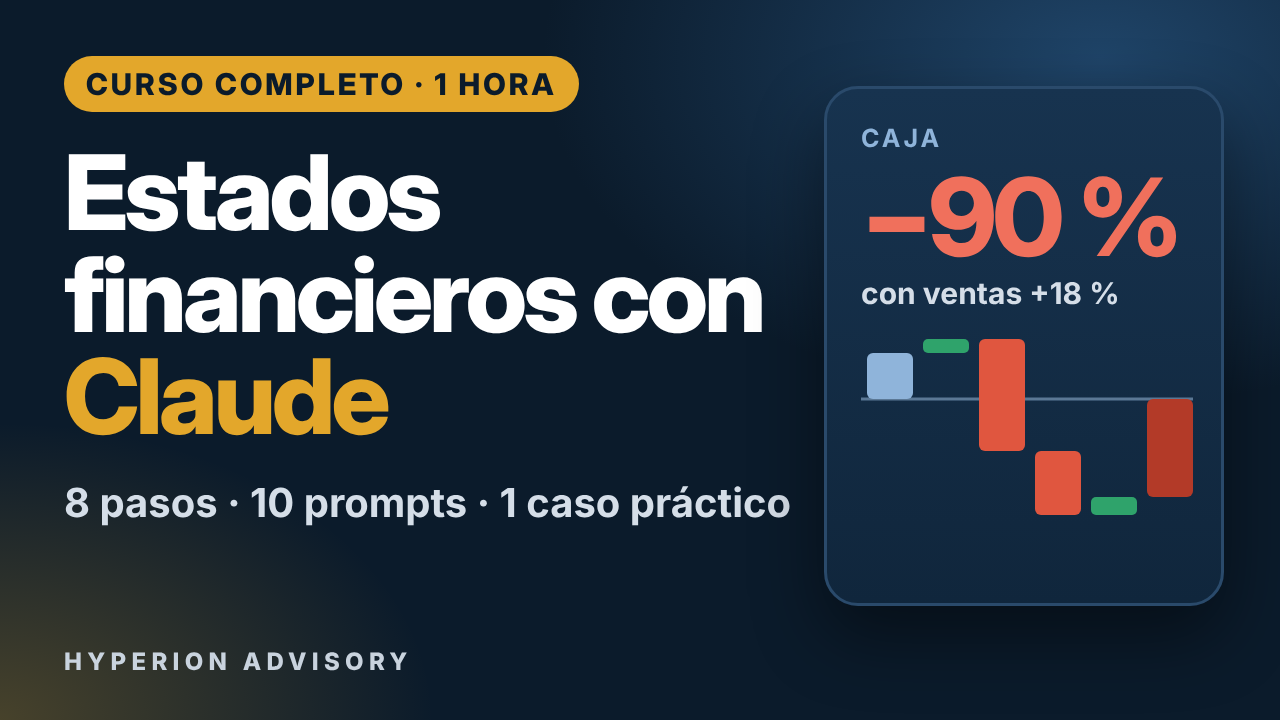
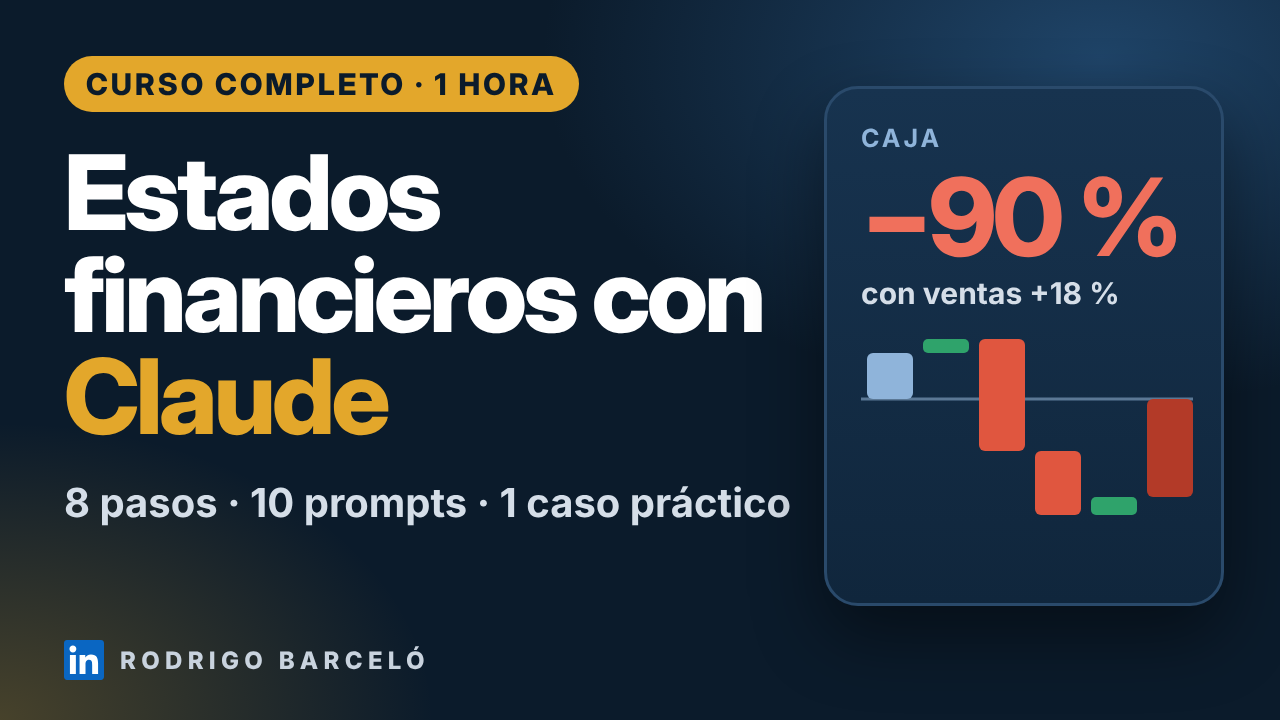
Curso de YouTube: firma del autor con LinkedIn en lugar de Hyperion
- pie de cada lámina, portada y miniatura: logo de LinkedIn junto a
  «Rodrigo Barceló» (antes, Hyperion Advisory)
- narración: la presentación dice el nombre del autor y el cierre invita
  a conectar por LinkedIn en vez de ofrecer el diagnóstico de la empresa
- descripción y etiquetas de YouTube sin el sitio ni la agenda de la
  empresa; queda un marcador para el enlace al perfil de LinkedIn
- «LinkedIn» se envía a la voz como «Línkedin»
- narracion.json con los dos audios regenerados (seg_000 y seg_095)
- prueba: ninguna lámina ni texto de voz nombra a la empresa

Claude-Session: https://claude.ai/code/session_01D34wMs6CNV8LnqbGaGS6HL

Changed region(s): [[0.0312, 0.8861, 0.3438, 0.9472]]

diff --git a/curso_youtube/estilo.css b/curso_youtube/estilo.css
@@ -28,7 +28,8 @@ h1 { font-family: "Inter Display", "Inter", sans-serif; font-size: 60px; line-he
 .cuerpo.alto { top: 196px; }
 .pie { position: absolute; left: 104px; right: 104px; bottom: 34px; height: 44px; display: flex; align-items: center; gap: 28px; font-size: 20px; font-weight: 600; letter-spacing: .12em; text-transform: uppercase; color: var(--texto-3); }
 .pie .curso { white-space: nowrap; }
-.pie .marca-h { white-space: nowrap; color: var(--texto-2); font-weight: 800; letter-spacing: .2em; }
+.pie .marca-h { white-space: nowrap; color: var(--texto-2); font-weight: 800; letter-spacing: .2em; display: inline-flex; align-items: center; gap: 14px; }
+.logo-in { width: 1.5em; height: 1.5em; flex: none; display: block; }
 .avance { flex: 1; display: flex; gap: 6px; align-items: center; }
 .avance i { flex: 1; height: 6px; border-radius: 3px; background: var(--linea-2); position: relative; overflow: hidden; }
 .avance i.hecho { background: var(--tinta-3); }
@@ -204,7 +205,7 @@ svg text { font-family: "Inter", sans-serif; }
 .titulo-curso h2 em { font-style: normal; color: var(--oro); }
 .titulo-curso .sub { font-size: 44px; line-height: 1.3; color: #C5D0DC; margin-top: 34px; }
 .titulo-curso .quien { margin-top: 56px; display: inline-flex; align-items: center; gap: 20px; padding: 16px 34px; border-radius: 999px; border: 2px solid #2F5174; font-size: 32px; font-weight: 600; color: #E7EDF4; }
-.titulo-curso .quien i { width: 14px; height: 14px; border-radius: 50%; background: var(--oro); }
+.titulo-curso .quien .logo-in { width: 44px; height: 44px; }
 .chips { display: flex; gap: 34px; margin-top: 70px; }
 .chip { width: 470px; border-radius: 26px; background: linear-gradient(180deg, #17334F, #10263C); border: 2px solid #2A4A6B; padding: 38px 34px; text-align: left; }
 .chip .ico { font-size: 60px; color: var(--oro); }
@@ -240,7 +241,9 @@ svg text { font-family: "Inter", sans-serif; }
 .op { border-radius: 26px; background: linear-gradient(180deg, #17334F, #10263C); border: 2px solid #2A4A6B; padding: 40px 36px; display: flex; flex-direction: column; gap: 16px; min-height: 420px; }
 .op .n { font-family: "Inter Display", sans-serif; font-size: 26px; font-weight: 800; letter-spacing: .16em; color: var(--oro); }
 .op .ico { font-size: 62px; color: var(--oro); margin: 8px 0 4px; }
-.op b { font-family: "Inter Display", sans-serif; font-size: 44px; line-height: 1.1; font-weight: 760; color: #fff; letter-spacing: -.02em; }
+.op .logo-in { width: 62px; height: 62px; margin: 8px 0 4px; }
+.op > b { font-family: "Inter Display", sans-serif; font-size: 44px; line-height: 1.1; font-weight: 760; color: #fff; letter-spacing: -.02em; }
+.op span b { font-weight: 700; color: #fff; }
 .op span { font-size: 30px; line-height: 1.34; color: #B9C6D4; }
 .gracias { position: absolute; left: 0; right: 0; bottom: 150px; text-align: center; font-family: "Inter Display", sans-serif; font-size: 46px; font-weight: 700; color: #fff; }
 .gracias em { font-style: normal; color: var(--oro); }

diff --git a/curso_youtube/youtube.py b/curso_youtube/youtube.py
@@ -16,6 +16,7 @@ from pathlib import Path
 
 from . import deck
 from .ensamblar import ENTRADA, _marca
+from .laminas import LINKEDIN, MARCA
 
 AQUI = Path(__file__).parent
 SALIDA = AQUI / "youtube"
@@ -31,7 +32,7 @@ ETIQUETAS = [
     "inteligencia artificial en finanzas", "IA para finanzas", "ratios financieros", "flujo de caja",
     "capital de trabajo", "análisis vertical y horizontal", "desviaciones presupuesto", "control de gestión",
     "informe al directorio", "prompts para finanzas", "CFO", "gerente de finanzas", "pymes", "contabilidad",
-    "curso de finanzas", "Hyperion Advisory",
+    "curso de finanzas", MARCA,
 ]
 
 APRENDIZAJES = [
@@ -70,8 +71,7 @@ def publicacion(capitulos: list[str], estimados: bool) -> str:
         "",
         "📥 Ebook: [ENLACE AL EBOOK]",
         "📊 Archivo del caso (Excel) y los 10 prompts: [ENLACE A LOS MATERIALES]",
-        "📅 Diagnóstico financiero sin costo (30 minutos): [ENLACE DE AGENDA]",
-        "🌐 https://www.hyperionadvisory.cl",
+        f"💼 LinkedIn de {MARCA}: [ENLACE A TU PERFIL DE LINKEDIN]",
         "",
         "CAPÍTULOS",
         *capitulos,
@@ -104,7 +104,7 @@ def publicacion(capitulos: list[str], estimados: bool) -> str:
          "¿Qué paso te gustaría ver con más profundidad? Te leo en los comentarios.",
          "```", "",
          "## Lista de verificación antes de publicar", "",
-         "- [ ] Reemplazar los tres enlaces entre [corchetes] (ebook, materiales y agenda).",
+         "- [ ] Reemplazar los tres enlaces entre [corchetes] (ebook, materiales y tu perfil de LinkedIn).",
          "- [ ] Subir `material/caso_distribuidora_alerce.xlsx` y `material/prompts.md` al lugar que enlazarás.",
          *(["- [ ] Pegar los capítulos definitivos (archivo `*_capitulos.txt` del render final)."] if estimados else []),
          "- [ ] Subir la miniatura `youtube/miniatura.png` (1280 x 720).",
@@ -126,7 +126,8 @@ body{width:1280px;height:720px;overflow:hidden;font-family:"Inter Display","Inte
 h1{font-size:104px;line-height:.98;font-weight:800;letter-spacing:-.04em;margin-top:30px}
 h1 em{font-style:normal;color:#E3A72B}
 .sub{margin-top:30px;font-family:"Inter",sans-serif;font-size:40px;font-weight:650;color:#D5DEE8}
-.marca{position:absolute;left:64px;bottom:44px;font-family:"Inter",sans-serif;font-size:24px;font-weight:800;letter-spacing:.22em;color:#C9D3DE}
+.marca{position:absolute;left:64px;bottom:40px;display:flex;align-items:center;gap:16px;font-family:"Inter",sans-serif;font-size:24px;font-weight:800;letter-spacing:.22em;text-transform:uppercase;color:#C9D3DE}
+.marca svg{width:40px;height:40px;flex:none}
 .gr{position:absolute;right:56px;top:86px;width:400px;height:520px;background:linear-gradient(180deg,#17334F,#10263C);border:3px solid #2A4A6B;border-radius:34px;padding:34px;box-shadow:0 30px 70px rgba(0,0,0,.45)}
 .gr .t{font-family:"Inter",sans-serif;font-size:25px;font-weight:700;letter-spacing:.12em;color:#8FB4DA;text-transform:uppercase}
 .gr .n{font-size:108px;font-weight:800;letter-spacing:-.04em;line-height:1;margin-top:10px;color:#F0705C}
@@ -136,7 +137,7 @@ h1 em{font-style:normal;color:#E3A72B}
 <div class="iz"><span class="sello">CURSO COMPLETO · 1 HORA</span>
 <h1>Estados financieros con <em>Claude</em></h1>
 <div class="sub">8 pasos · 10 prompts · 1 caso práctico</div></div>
-<div class="marca">HYPERION ADVISORY</div>
+<div class="marca">__LOGO____MARCA__</div>
 <div class="gr"><div class="t">Caja</div><div class="n">−90 %</div><div class="d">con ventas +18 %</div>
 <svg viewBox="0 0 332 230"><line x1="0" y1="60" x2="332" y2="60" stroke="#5B7895" stroke-width="3"/>
 <rect x="6" y="14" width="46" height="46" rx="6" fill="#8FB4DA"/><rect x="62" y="0" width="46" height="14" rx="5" fill="#2FA36B"/>
@@ -147,7 +148,7 @@ h1 em{font-style:normal;color:#E3A72B}
 
 def miniatura(destino: Path) -> None:
     html = destino.with_suffix(".html")
-    html.write_text(MINIATURA_HTML, encoding="utf-8")
+    html.write_text(MINIATURA_HTML.replace("__LOGO__", LINKEDIN).replace("__MARCA__", MARCA), encoding="utf-8")
     script = ("const {chromium}=require('playwright');(async()=>{const b=await chromium.launch();"
               "const c=await b.newContext({viewport:{width:1280,height:720},deviceScaleFactor:1});const p=await c.newPage();"
               f"await p.goto('file://{html.resolve()}');await p.evaluate(()=>document.fonts.ready);"

diff --git a/curso_youtube/laminas.py b/curso_youtube/laminas.py
@@ -10,7 +10,15 @@ import html
 import re
 
 CURSO = "Análisis de estados financieros con Claude"
-MARCA = "Hyperion Advisory"
+MARCA = "Rodrigo Barceló"
+
+# Logo de LinkedIn (el recuadro con «in»): acompaña al nombre del autor para indicar dónde encontrarlo
+LINKEDIN = ('<svg class="logo-in" viewBox="0 0 24 24"><rect x="2" y="2" width="20" height="20" rx="2" fill="#fff"/>'
+            '<path fill="#0A66C2" d="M20.447 20.452h-3.554v-5.569c0-1.328-.027-3.037-1.852-3.037-1.853 0-2.136 1.445-2.136 '
+            '2.939v5.667H9.351V9h3.414v1.561h.046c.477-.9 1.637-1.85 3.37-1.85 3.601 0 4.267 2.37 4.267 5.455v6.286zM5.337 '
+            '7.433c-1.144 0-2.063-.926-2.063-2.065 0-1.138.92-2.063 2.063-2.063 1.14 0 2.064.925 2.064 2.063 0 1.139-.925 '
+            '2.065-2.064 2.065zm1.782 13.019H3.555V9h3.564v11.452zM22.225 0H1.771C.792 0 0 .774 0 1.729v20.542C0 23.227.792 '
+            '24 1.771 24h20.451C23.2 24 24 23.227 24 22.271V1.729C24 .774 23.2 0 22.222 0h.003z"/></svg>')
 
 ICONOS = {
     "check": '<polyline points="20 6 9 17 4 12"/>',
@@ -68,6 +76,8 @@ METODO = [
 
 
 def ico(nombre: str) -> str:
+    if nombre == "linkedin":
+        return LINKEDIN
     return f'<svg class="ico" viewBox="0 0 24 24">{ICONOS[nombre]}</svg>'
 
 
@@ -103,7 +113,7 @@ def _pie(ctx: dict) -> str:
         else:
             barras.append("<i></i>")
     return (f'<div class="pie"><span class="curso">{esc(CURSO)}</span>'
-            f'<div class="avance">{"".join(barras)}</div><span class="marca-h">{esc(MARCA)}</span></div>')
+            f'<div class="avance">{"".join(barras)}</div><span class="marca-h">{LINKEDIN}{esc(MARCA)}</span></div>')
 
 
 def _notas(notas: list[dict]) -> str:
@@ -301,7 +311,7 @@ def _gancho(s: dict) -> str:
 
 def _titulo_curso(s: dict) -> str:
     return (f'<div class="centro titulo-curso"><div class="sobre">{esc(s["sobre"])}</div><h2>{s["titulo_html"]}</h2>'
-            f'<div class="sub">{esc(s["sub"])}</div><div class="quien"><i></i>{esc(s["quien"])}</div></div>')
+            f'<div class="sub">{esc(s["sub"])}</div><div class="quien">{LINKEDIN}{esc(s["quien"])}</div></div>')
 
 
 def _chips(s: dict) -> str:

diff --git a/curso_youtube/contenido/m11_cierre.py b/curso_youtube/contenido/m11_cierre.py
@@ -42,8 +42,8 @@ LAMINAS = [
         opciones=[
             dict(p=0, n="01", icono="descarga", t="Descarga el ebook, el caso y los prompts",
                  d="Repite cada prompt con los mismos números, y después con los tuyos. Enlace en la descripción."),
-            dict(p=1, n="02", icono="calendario", t="Diagnóstico financiero sin costo",
-                 d="30 minutos con Hyperion Advisory: revisamos tus reportes y te llevas 2 o 3 mejoras concretas."),
+            dict(p=1, n="02", icono="linkedin", t="Conecta conmigo en LinkedIn",
+                 d="Búscame como **Rodrigo Barceló** o usa el enlace de la descripción, y cuéntame cómo te fue."),
             dict(p=2, n="03", icono="play", t="Suscríbete y comenta",
                  d="Cuéntame qué paso te gustaría ver con más profundidad."),
         ],
@@ -52,9 +52,9 @@ LAMINAS = [
             "Si quieres aplicar este método en tu empresa, tienes tres formas de seguir. La primera: descarga el "
             "ebook, el archivo del caso y los prompts. El enlace está en la descripción. Repite cada prompt con los mismos "
             "números, y después hazlo con los tuyos.",
-            "La segunda: si prefieres hacerlo acompañado, en Hyperion Advisory ofrecemos un diagnóstico financiero "
-            "sin costo, de 30 minutos. Revisamos juntos cómo están hoy tus reportes, y te llevas dos o tres mejoras "
-            "concretas. También encuentras el enlace en la descripción.",
+            "La segunda: conecta conmigo en LinkedIn. Búscame como Rodrigo Barceló, o usa el enlace que está en la "
+            "descripción. Escríbeme por ahí si tienes dudas, o si quieres contarme cómo te fue con tus propios "
+            "números.",
             "Y la tercera: suscríbete al canal, y cuéntame en los comentarios qué paso te gustaría ver con más "
             "profundidad.",
             "Gracias por acompañarme durante esta hora. Nos vemos en el próximo video.",

diff --git a/tests/test_curso_deck.py b/tests/test_curso_deck.py
@@ -49,3 +49,17 @@ def test_modulos_en_orden_y_capitulos():
     assert modulos == sorted(modulos)
     assert set(modulos) == set(range(len(deck.MODULOS)))
     assert a_voz("Paso 3") == "Paso tres"
+
+
+def test_la_marca_es_el_autor_con_su_linkedin():
+    """El video se firma con el nombre del autor y el logo de LinkedIn; no nombra a ninguna empresa."""
+    from curso_youtube.laminas import MARCA
+    laminas = _laminas()
+    for s in laminas:
+        ctx = dict(kicker=s["kicker"], modulo=s["modulo"], n_modulos=s["n_modulos"], avance=s["avance"])
+        html = pagina(s, ctx)
+        assert "hyperion" not in html.lower(), s["id"]
+        if s["tipo"] not in ("gancho", "titulo_curso", "chips", "seccion", "cierre") or 'class="pie"' in html:
+            assert 'class="logo-in"' in html and MARCA in html, s["id"]
+    for g in deck.segmentos(laminas):
+        assert "hyperion" not in g["voz"].lower(), g["id"]

diff --git a/curso_youtube/contenido/m00_intro.py b/curso_youtube/contenido/m00_intro.py
@@ -19,9 +19,9 @@ LAMINAS = [
         sobre="Curso completo · 1 hora",
         titulo_html="Análisis de estados financieros con <em>Claude</em>",
         sub="De los números a las decisiones, paso a paso",
-        quien="Rodrigo · Hyperion Advisory",
+        quien="Rodrigo Barceló",
         pasos=[
-            "Hola, soy Rodrigo, de Hyperion Advisory. En esta clase de una hora vas a aprender a analizar estados "
+            "Hola, soy Rodrigo Barceló. En esta clase de una hora vas a aprender a analizar estados "
             "financieros con Claude, paso a paso: desde preparar la información hasta entregar un informe con "
             "conclusiones y un plan de acción.",
         ],

diff --git a/tests/test_curso_voz.py b/tests/test_curso_voz.py
@@ -52,6 +52,7 @@ def test_pronunciacion():
     assert a_voz("«analiza este balance»") == "analiza este balance"
     assert a_voz("descarga el ebook") == "descarga el íbuk"
     assert a_voz("gerente de finanzas o controller") == "gerente de finanzas o contróler"
+    assert a_voz("conecta conmigo en LinkedIn") == "conecta conmigo en Línkedin"
 
 
 def test_no_toca_palabras_con_digitos():

diff --git a/curso_youtube/voz.py b/curso_youtube/voz.py
@@ -19,6 +19,7 @@ PRONUNCIACION = [
     (r"\bCSV\b", "ce ese ve"),
     (r"\bDuPont\b", "Dupont"),
     (r"\bcontroller\b", "contróler"),
+    (r"\bLinkedIn\b", "Línkedin"),
 ]
 
 _UNIDADES = ["cero", "uno", "dos", "tres", "cuatro", "cinco", "seis", "siete", "ocho", "nueve", "diez",

diff --git a/curso_youtube/youtube/publicacion.md b/curso_youtube/youtube/publicacion.md
@@ -8,29 +8,28 @@
 
 ## Descripción
 
-_Tiempos exactos del render final._
+_Tiempos estimados a partir del guion. Reemplázalos por el archivo de capítulos del render final._
 
 ```
 Aprende a analizar estados financieros con Claude, paso a paso: verificación, análisis vertical y horizontal, ratios, flujo de caja, desviaciones contra el presupuesto, señales de alerta e informe para el directorio. Con un caso práctico completo y 10 prompts listos para usar.
 
 📥 Ebook: [ENLACE AL EBOOK]
 📊 Archivo del caso (Excel) y los 10 prompts: [ENLACE A LOS MATERIALES]
-📅 Diagnóstico financiero sin costo (30 minutos): [ENLACE DE AGENDA]
-🌐 https://www.hyperionadvisory.cl
+💼 LinkedIn de Rodrigo Barceló: [ENLACE A TU PERFIL DE LINKEDIN]
 
 CAPÍTULOS
 00:00 Introducción
-02:11 Qué puede y qué no puede hacer Claude
-06:22 Paso 1: preparar los datos y el contexto
-12:22 Paso 2: verificar que todo cuadre
-16:55 Paso 3: análisis vertical y horizontal
-21:44 Paso 4: ratios financieros
-28:47 Paso 5: flujo de efectivo y capital de trabajo
-35:22 Paso 6: desviaciones contra el presupuesto
-40:09 Paso 7: señales de alerta
-45:04 Paso 8: escenarios, plan de acción e informe
-50:57 Tu rutina mensual y los errores más comunes
-55:51 Resumen y próximos pasos
+02:15 Qué puede y qué no puede hacer Claude
+06:27 Paso 1: preparar los datos y el contexto
+12:35 Paso 2: verificar que todo cuadre
+17:17 Paso 3: análisis vertical y horizontal
+22:14 Paso 4: ratios financieros
+29:29 Paso 5: flujo de efectivo y capital de trabajo
+36:26 Paso 6: desviaciones contra el presupuesto
+41:21 Paso 7: señales de alerta
+46:31 Paso 8: escenarios, plan de acción e informe
+52:36 Tu rutina mensual y los errores más comunes
+57:29 Resumen y próximos pasos
 
 LO QUE VAS A APRENDER
 • Preparar tus estados financieros y darle contexto a Claude (y qué cuidar en confidencialidad).
@@ -53,7 +52,7 @@ Contenido educativo; no constituye asesoría financiera, contable ni tributaria.
 
 ## Etiquetas
 
-análisis de estados financieros, estados financieros, análisis financiero, Claude, Claude AI, inteligencia artificial en finanzas, IA para finanzas, ratios financieros, flujo de caja, capital de trabajo, análisis vertical y horizontal, desviaciones presupuesto, control de gestión, informe al directorio, prompts para finanzas, CFO, gerente de finanzas, pymes, contabilidad, curso de finanzas, Hyperion Advisory
+análisis de estados financieros, estados financieros, análisis financiero, Claude, Claude AI, inteligencia artificial en finanzas, IA para finanzas, ratios financieros, flujo de caja, capital de trabajo, análisis vertical y horizontal, desviaciones presupuesto, control de gestión, informe al directorio, prompts para finanzas, CFO, gerente de finanzas, pymes, contabilidad, curso de finanzas, Rodrigo Barceló
 
 ## Comentario fijado (sugerido)
 
@@ -65,8 +64,9 @@ Descárgalos junto con el archivo del caso: [ENLACE A LOS MATERIALES]
 
 ## Lista de verificación antes de publicar
 
-- [ ] Reemplazar los tres enlaces entre [corchetes] (ebook, materiales y agenda).
+- [ ] Reemplazar los tres enlaces entre [corchetes] (ebook, materiales y tu perfil de LinkedIn).
 - [ ] Subir `material/caso_distribuidora_alerce.xlsx` y `material/prompts.md` al lugar que enlazarás.
+- [ ] Pegar los capítulos definitivos (archivo `*_capitulos.txt` del render final).
 - [ ] Subir la miniatura `youtube/miniatura.png` (1280 x 720).
 - [ ] Subir los subtítulos `.srt` (idioma: español) o pegar el guion para que YouTube los sincronice.
 - [ ] Categoría: Educación. Idioma del video: español.

diff --git a/curso_youtube/GUION.md b/curso_youtube/GUION.md
@@ -1,6 +1,6 @@
 # Guion · Análisis de estados financieros con Claude
 
-108 láminas · 96 audios · 57.936 caracteres de narración · ≈ 59 minutos
+108 láminas · 96 audios · 57.862 caracteres de narración · ≈ 59 minutos
 
 Cada párrafo es un cambio en pantalla. Las cifras se escriben como se ven; la voz las recibe en palabras.
 Para cambiar el texto, edita los archivos de `contenido/` y vuelve a generar este documento.
@@ -18,7 +18,7 @@ Cada mes cierras los estados financieros y tienes el balance, el estado de resul
 
 ### m00_s02 · Título del curso
 
-Hola, soy Rodrigo, de Hyperion Advisory. En esta clase de una hora vas a aprender a analizar estados financieros con Claude, paso a paso: desde preparar la información hasta entregar un informe con conclusiones y un plan de acción.
+Hola, soy Rodrigo Barceló. En esta clase de una hora vas a aprender a analizar estados financieros con Claude, paso a paso: desde preparar la información hasta entregar un informe con conclusiones y un plan de acción.
 
 ### m00_s03 · Lo único que necesitas
 
@@ -1143,7 +1143,7 @@ Ninguno de esos pasos requiere ser experto en inteligencia artificial. Requiere 
 
 Si quieres aplicar este método en tu empresa, tienes tres formas de seguir. La primera: descarga el ebook, el archivo del caso y los prompts. El enlace está en la descripción. Repite cada prompt con los mismos números, y después hazlo con los tuyos.
 
-La segunda: si prefieres hacerlo acompañado, en Hyperion Advisory ofrecemos un diagnóstico financiero sin costo, de 30 minutos. Revisamos juntos cómo están hoy tus reportes, y te llevas dos o tres mejoras concretas. También encuentras el enlace en la descripción.
+La segunda: conecta conmigo en LinkedIn. Búscame como Rodrigo Barceló, o usa el enlace que está en la descripción. Escríbeme por ahí si tienes dudas, o si quieres contarme cómo te fue con tus propios números.
 
 Y la tercera: suscríbete al canal, y cuéntame en los comentarios qué paso te gustaría ver con más profundidad.
 
